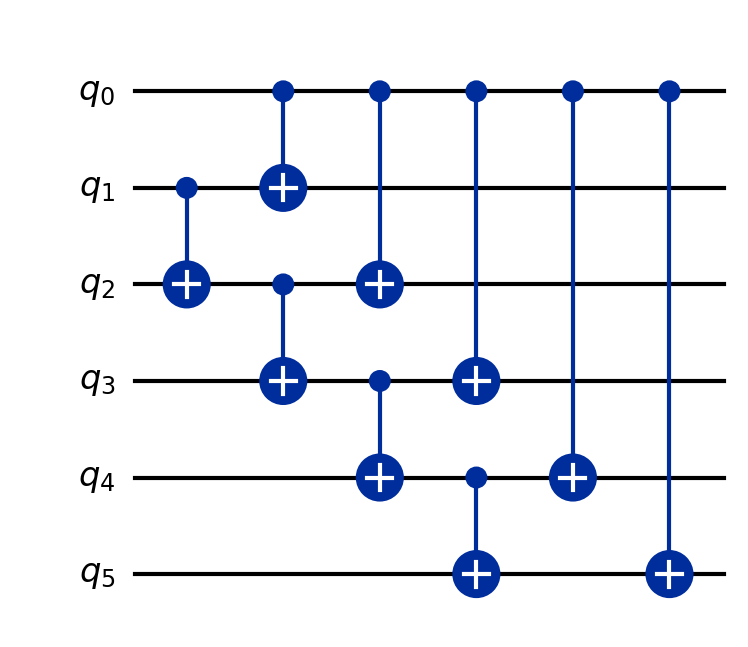
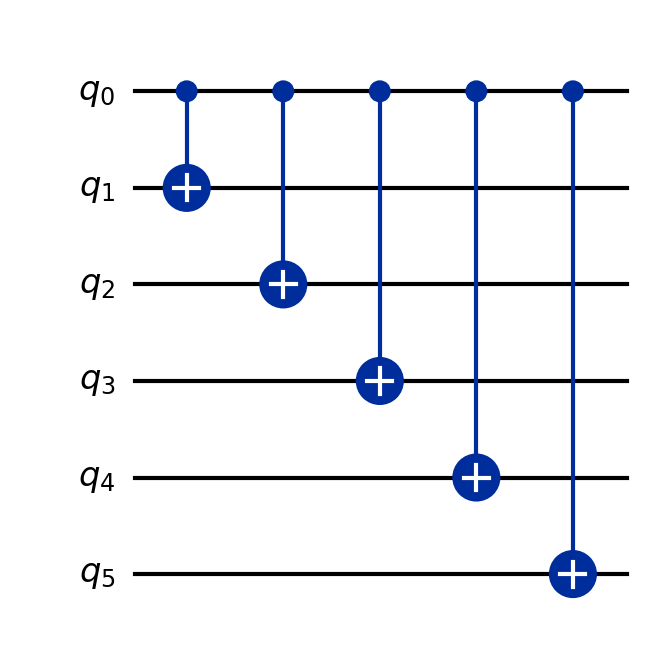
Completed depth

diff --git a/crates/accelerate/src/sabre/route.rs b/crates/accelerate/src/sabre/route.rs
@@ -414,14 +414,21 @@ impl<'a, 'b> RoutingState<'a, 'b> {
             }
         }
 
-        if let Some(DepthHeuristic { .. }) = self.heuristic.depth {
+        if let Some(DepthHeuristic { weight, scale }) = self.heuristic.depth {
+            let weight = match scale {
+                SetScaling::Constant => weight,
+                SetScaling::Size => {
+                    if self.front_layer.is_empty() {
+                        0.0
+                    } else {
+                        weight / (self.front_layer.len() as f64)
+                    }
+                }
+            };
             let orig_depth = self.circuit_depth();
-            println!("      Orig depth: {:?}", orig_depth);
 
             // Calculate the change in circuit depth for each swap
             for (swap, score) in self.swap_scores.iter_mut() {
-                println!("      Swap: {:?} Score: {:?}", swap, score);
-                
                 // Update the qubit depths after directly applying the swap trial, treating swaps as 3 CNOTs
                 let mut trial_qubit_depths = self.qubit_depths.to_vec();
                 let new_depth = trial_qubit_depths[swap[0].index()]
@@ -434,8 +441,6 @@ impl<'a, 'b> RoutingState<'a, 'b> {
                 // Simulate the routing process to change in circuit depth if the nodes were routed
                 let mut trial_front_layer = self.front_layer.clone();
                 trial_front_layer.apply_swap(*swap);
-
-                println!("          Temp front layer: {:?}", trial_front_layer.nodes);
 
                 // Check if any nodes are routable
                 let mut routable_nodes = Vec::<NodeIndex>::with_capacity(2);
@@ -455,13 +460,11 @@ impl<'a, 'b> RoutingState<'a, 'b> {
                 }) {
                     routable_nodes.push(node);
                 }
-                println!("          Routable nodes: {:?}", routable_nodes);
                 // If there are routable nodes, simulate the routing process
                 if !routable_nodes.is_empty() {
                     let mut trial_layout = self.layout.clone();
                     let mut trial_required_predecessors = self.required_predecessors.to_vec();
                     trial_layout.swap_physical(swap[0], swap[1]);
-                    println!("          Temp front layer: {:?}", trial_front_layer.qubits());
                     
                     // Simulate routing the reachable nodes
                     let mut to_visit: Vec<NodeIndex> = trial_front_layer.iter_nodes().copied().collect();
@@ -521,11 +524,13 @@ impl<'a, 'b> RoutingState<'a, 'b> {
 
                 // Calculate the final maximum depth
                 let final_depth = *trial_qubit_depths.iter().max_by(|a, b| a.partial_cmp(b).unwrap()).unwrap();
-                println!("          Final depth: {:?}", final_depth);
-                println!("          Qubit depths: {:?}", trial_qubit_depths);
-
                 let depth_increase = final_depth - orig_depth;
-                println!("          Depth increase: {:?}", depth_increase);
+                // Divide the increase in depth by 3 for how 1 swap is equivalent to 3 CNOTs
+                let depth_score = depth_increase / 3.0;
+                
+                
+                *score += weight * (self.front_layer.score(*swap, dist) + depth_score);
+
             }
         }
 
@@ -692,16 +697,13 @@ pub fn swap_map_trial(
     let mut routable_nodes = Vec::<NodeIndex>::with_capacity(2);
     let mut num_search_steps = 0;
 
-    println!("Front layer: {:?}", state.front_layer.nodes);
     while !state.front_layer.is_empty() {
         let mut current_swaps: Vec<[PhysicalQubit; 2]> = Vec::new();
         let qubit_depths_backup = state.qubit_depths.to_vec();
         // Swap-mapping loop.  This is the main part of the algorithm, which we repeat until we
         // either successfully route a node, or exceed the maximum number of attempts.
         while routable_nodes.is_empty() && current_swaps.len() <= state.heuristic.attempt_limit {
-            println!("Routable_nodes: {:?}", routable_nodes);
             let best_swap = state.choose_best_swap();
-            println!("Best swap: {:?}", best_swap);
             state.apply_swap(best_swap);
             current_swaps.push(best_swap);
             if let Some(node) = state.routable_node_on_qubit(best_swap[1]) {
@@ -720,7 +722,6 @@ pub fn swap_map_trial(
                     state.decay[best_swap[1].index()] += increment;
                 }
             }
-            println!("Current swaps: {:?}", current_swaps);
         }
         if routable_nodes.is_empty() {
             // If we exceeded the max number of heuristic-chosen swaps without making progress,
@@ -740,9 +741,7 @@ pub fn swap_map_trial(
             state.decay.fill(1.);
         }
         routable_nodes.clear();
-        println!("Front layer: {:?}", state.front_layer.nodes);
     }
-    println!("Circle depth: {:?}", state.circuit_depth());
     (
         SabreResult {
             map: SwapMap { map: state.out_map },

diff --git a/test/python/transpiler/test_sabre_swap_simple.py b/test/python/transpiler/test_sabre_swap_simple.py
@@ -37,26 +37,78 @@ class SimplifiedTestSabreSwap(QiskitTestCase):
             writer = csv.writer(file)
             writer.writerow(["num_qubits", "old_depth", "new_depth"])
 
-    @ddt.data(6)
+    @ddt.data(27)
     def test_ghz_2q_depth(self, num_qubits):
         """Test that the SabreSwap pass with a fixed seed produces a specific 2 qubit gate depth for a GHZ circuit."""
         # Setup
-        coupling = CouplingMap.from_line(num_qubits)
-        heuristic = "depth"
+        coupling_list = [[6, 7],
+ [7, 6],
+ [12, 13],
+ [13, 12],
+ [7, 10],
+ [10, 7],
+ [8, 11],
+ [11, 8],
+ [3, 2],
+ [2, 3],
+ [4, 7],
+ [7, 4],
+ [9, 8],
+ [8, 9],
+ [17, 18],
+ [18, 17],
+ [1, 0],
+ [0, 1],
+ [15, 12],
+ [12, 15],
+ [1, 4],
+ [4, 1],
+ [20, 19],
+ [19, 20],
+ [26, 25],
+ [25, 26],
+ [21, 23],
+ [23, 21],
+ [21, 18],
+ [18, 21],
+ [16, 14],
+ [14, 16],
+ [13, 14],
+ [14, 13],
+ [24, 25],
+ [25, 24],
+ [11, 14],
+ [14, 11],
+ [24, 23],
+ [23, 24],
+ [10, 12],
+ [12, 10],
+ [22, 19],
+ [19, 22],
+ [5, 8],
+ [8, 5],
+ [22, 25],
+ [25, 22],
+ [3, 5],
+ [5, 3],
+ [16, 19],
+ [19, 16],
+ [18, 15],
+ [15, 18],
+ [1, 2],
+ [2, 1]]
+        coupling = CouplingMap(coupling_list)
+        heuristic = "decay"
 
         # Create a GHZ circuit
         qr = QuantumRegister(num_qubits, "q")
         qc = QuantumCircuit(qr)
-        qc.cx(1,2)
-        qc.cx(2,3)
-        qc.cx(3,4)
-        qc.cx(4,5)
 
         for i in range(1, num_qubits):
             qc.cx(0, i)
 
         # Create a PassManager and run the SabreSwap pass
-        pm = PassManager(SabreSwap(coupling, heuristic, seed=42, trials=1))
+        pm = PassManager(SabreSwap(coupling, heuristic, seed=42, trials=10))
         new_qc = pm.run(qc)
 
         # Decompose the swap gates in the circuits to cx gates
@@ -64,8 +116,8 @@ class SimplifiedTestSabreSwap(QiskitTestCase):
         new_qc = new_qc.decompose()
 
         # Optional: Save the circuits to files
-        qc.draw(output='mpl', filename=f'.images/ghz_{num_qubits}_old_circuit.png')
-        new_qc.draw(output='mpl', filename=f'.images/ghz_{num_qubits}_new_circuit.png')
+        #qc.draw(output='mpl', filename=f'.images/ghz_{num_qubits}_old_circuit.png')
+        #new_qc.draw(output='mpl', filename=f'.images/ghz_{num_qubits}_new_circuit.png')
 
         # Obtain the 2 qubit gate depth of old and new circuits
         old_depth = qc.depth(lambda x: x.operation.num_qubits == 2)
